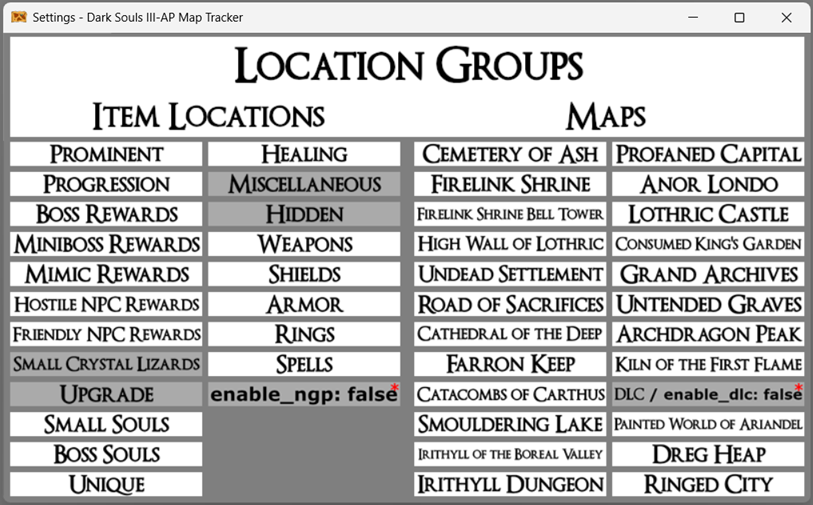
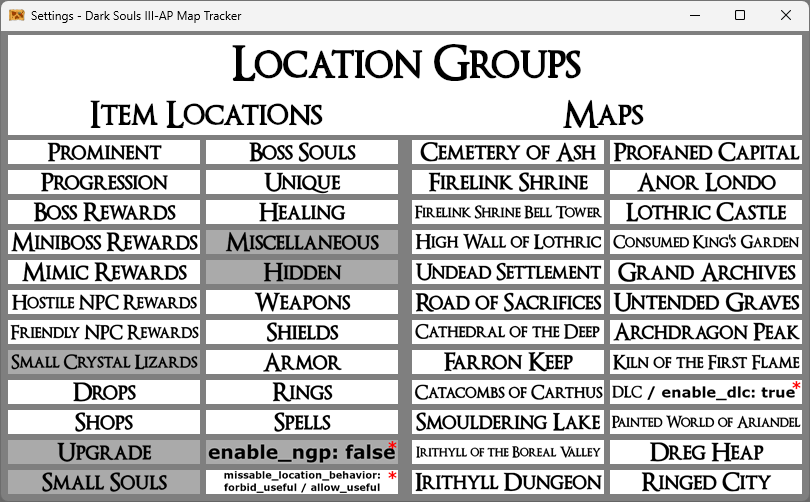
Update README

diff --git a/README.md b/README.md
@@ -1,19 +1,38 @@
 # Dark Souls III Archipelago Map Tracker Pack for PopTracker
 
-This is a Dark Souls III AP Map Tracker for [PopTracker](https://github.com/black-sliver/PopTracker). Designed around [nex3's Dark-Souls-III-Archipelago-client (v3.0.13)](https://github.com/nex3/Dark-Souls-III-Archipelago-client), setup for auto-tracking as well for [Archipelago 0.6.5](https://archipelago.gg/).
+This is a Dark Souls III AP Map Tracker for [PopTracker](https://github.com/black-sliver/PopTracker). Designed around [fswap's from-software-archipelago-clients (v4.0.X)](https://github.com/fswap/from-software-archipelago-clients), setup for auto-tracking as well for [Archipelago 0.6.X](https://archipelago.gg/).
+
+> #### ⚠️ Warning ⚠️
+> If you generated a room on [archipelago.gg](https://archipelago.gg/), or you want to use this tracker pack with [nex3's Dark-Souls-III-Archipelago-client (v3.0.13)](https://github.com/nex3/Dark-Souls-III-Archipelago-client), you should [download the v1.0.6 version](https://github.com/TVV1GK/DS3_AP_Maptracker/releases/v1.0.6), but keep in mind that it won't be updated anymore.
+
+*Archipelago will be referred to as AP from now on.*
 
 ## Installation
 
 1. If you haven't already, download [PopTracker](https://github.com/black-sliver/PopTracker/releases/latest).
     - If you have Windows, download the `poptracker_[version]_win64.zip` file.
 2. Extract the downloaded file.
-3. Download `ds3_tvv1gk.zip` from the [Releases](https://github.com/TVV1GK/DS3_AP_Maptracker/releases/latest) section.
+3. Download `ds3_tvv1gk.zip` from the [Releases](https://github.com/TVV1GK/DS3_AP_Maptracker/releases/latest) section (you can ren).
 4. Move `ds3_tvv1gk.zip` file into `/poptracker/packs/`.
 5. You're all set!
 
 ## Connecting to AP
 
-To connect to the AP server for auto-tracking, click on the `AP` button at the top of the tracker and a separate window should pop up asking for you to "__Enter Archipelago host and port__", in which you should type in `archipelago.gg:PORT_NUMBER` (or whatever ip:port combination you're connecting to), select `OK` and then continue to "__Enter slot__" and "__Enter password__" (if the room has no password, leave it blank). Once complete, the `AP` button at the top of the tracker window should turn "Green" meaning you are now auto-tracking!
+To connect to the AP server for auto-tracking, click on the `AP` button at the top of the tracker and a separate window should pop up asking for you to "__Enter Archipelago host and port__", in which you should enter `archipelago.gg:PORT_NUMBER` (or whatever ip:port combination you're connecting to), and then continue to "__Enter slot__" and "__Enter password__" (if the room has no password, leave it blank). Once complete, the `AP` button at the top of the tracker window should turn green meaning you are now auto-tracking!
+
+## Pack Variants
+
+#### AP Map Tracker
+This is the default variant. You can use it without connection to the AP server, but the following won't be displayed as intended:
+- Yhorm's placement won't be tracked, so soft logic for locations blocked by him won't be applied and will show those locations as reachable.
+- Soft logic for locations requiring killing NPCs won't be applied, so all NPC tied locations will be shown as reachable.
+
+#### AP Map Tracker (all soft logic)
+This variant should only be used with connection to the AP server, because it tracks all progression items, but not all of them are displayed and modifiable by the user.
+Without connection to the AP server, the functionality of this variant is the same as [AP Map Tracker](#ap-map-tracker).
+
+#### Items Only
+This can be used to track only progression items.
 
 ## Location Groups filtering
 
@@ -23,17 +42,22 @@ The auto-tracker isn't able to get `exclude_locations` and `excluded_location_be
 
 ### How to use it?
 
-- **Currently, Archipelago tracks `exclude_locations` and missable locations, even when they're set to `do_not_randomize`. For this reason, I recommend using the filters to include ONLY important locations (= locations that can have progression/key items) by turning off every location group included in `exclude_locations` despite what it's set to.**
-    - Although, if you have `excluded_location_behavior` set to `allow_useful`, you can leave these location groups ON, but you should know that these locations won't have progression/key items.
-- The auto-tracker can only and will set automatically `enable_ngp` and `enable_dlc`. These groups have red asterisks next to them.
-- Grayed: OFF / Bright: ON -> ON means that locations with this trait can be displayed.
+- **Currently, AP tracks both excluded and missable locations (even when they're set to `do_not_randomize`). For this reason, I recommend using the filters to include ONLY locations that can have progression items by turning off every location group included in `exclude_locations`.**
+    - Although, you can leave these location groups ON, but you should know that these locations won't have progression items.
+- Grayed: OFF / Bright: ON
+    - ON means that locations with this trait can be displayed
+- The groups, that have red asterisks next to them, should match your AP options.
+    - `DLC / enable_dlc` should be turned on only if `DLC` isn't included in `exclude_locations` AND `enable_dlc` is set to `true`.
+    - The auto-tracker can only set `DLC / enable_dlc` partially , and can't get `missable_location_behavior` at all, so you should check the settings manually every time you connect to the AP server.
 - A location will be displayed on the map if its every trait is ON:
     - i.e. `FS: Skull Ring - kill Ludleth` will be displayed on the map if `Friendly NPC Rewards`, `Hidden`, `Rings` and `Firelink Shrine` is ON at the same time.
-- Missable locations are NOT implemented!
-    - Every location that can have a progression/key item is implemented!
+- Every location that can have a progression item is implemented!
+    - Missable locations are only implemented on the backend! If you wish to help with implementing them on the frontend, feel free to ask me or open a PR!
+        - Currently, setting `missable_location_behavior` to OFF hides locations tied to any missable progression item - without randomization, those locations become missable.
 
 ## Credits
 - [DS3_AP_Maptracker](https://github.com/Br00ty/DS3_AP_Maptracker) by Br00ty
 - [Dark Souls 3 Wiki (fextralife.com)](https://darksouls3.wiki.fextralife.com/Dark+Souls+3+Wiki) for the assets
 - [PopTracker](https://github.com/black-sliver/PopTracker) by black-sliver
 - [Dark-Souls-III-Archipelago-client](https://github.com/nex3/Dark-Souls-III-Archipelago-client) by nex3 and Marechal-L
+- [from-software-archipelago-clients](https://github.com/fswap/from-software-archipelago-clients) by fswap